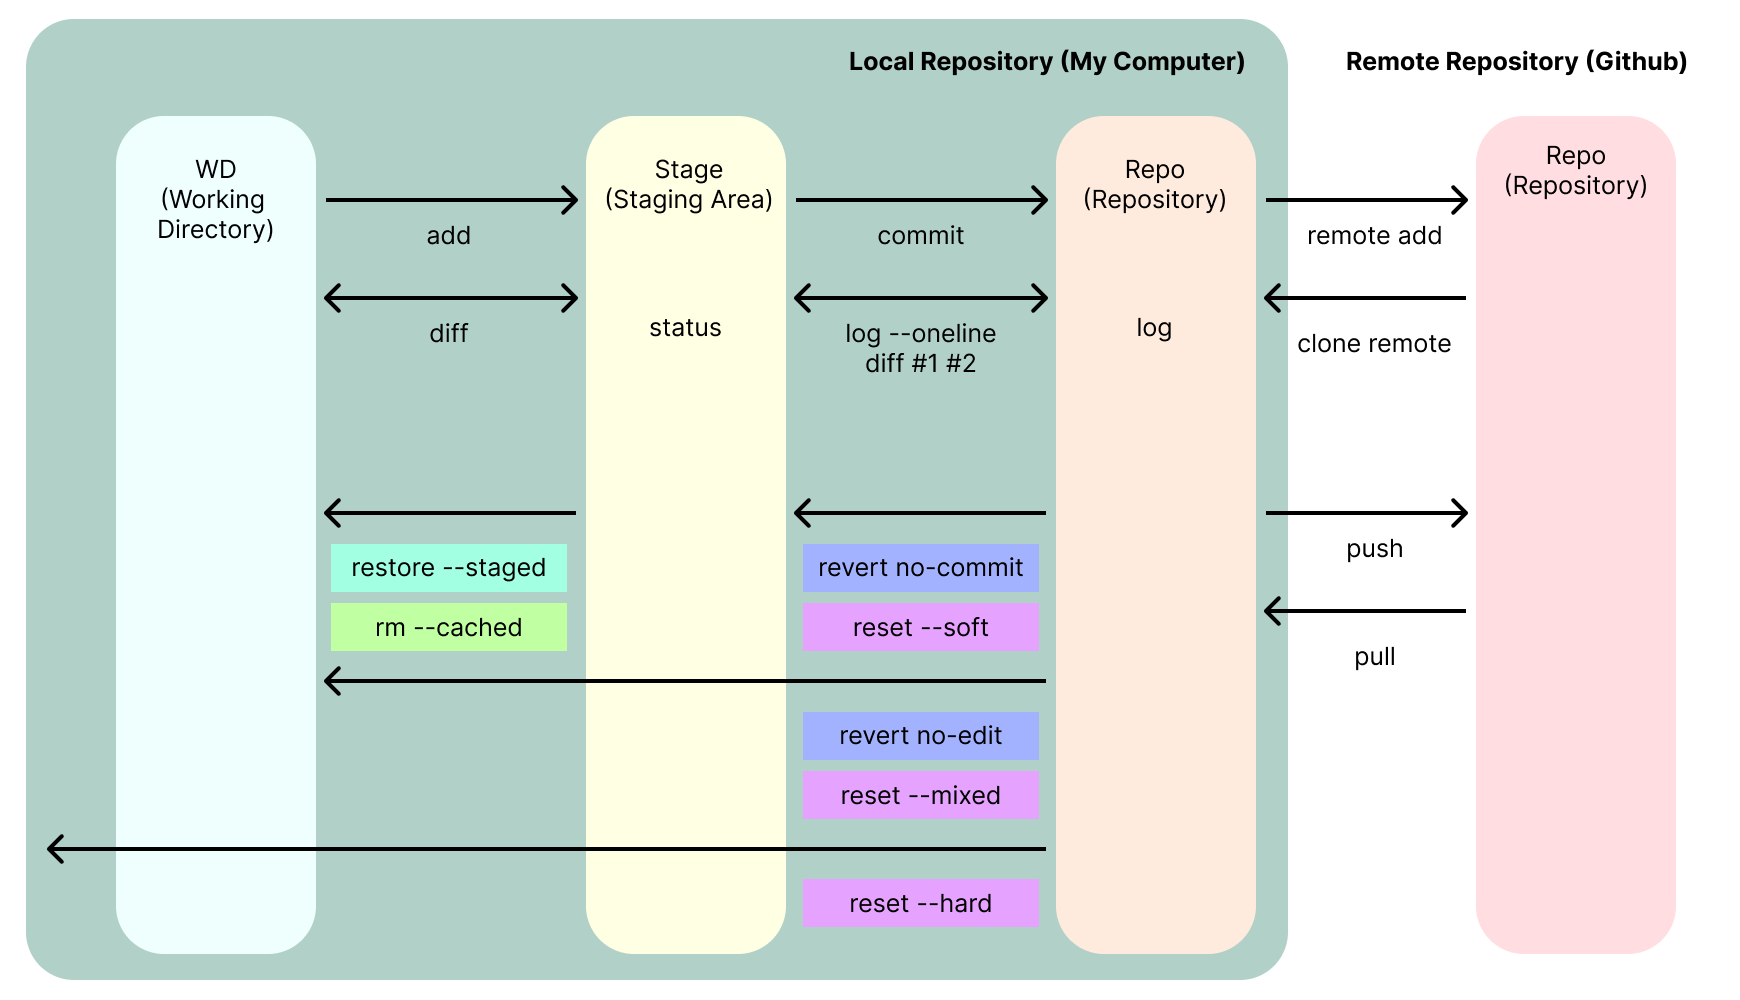
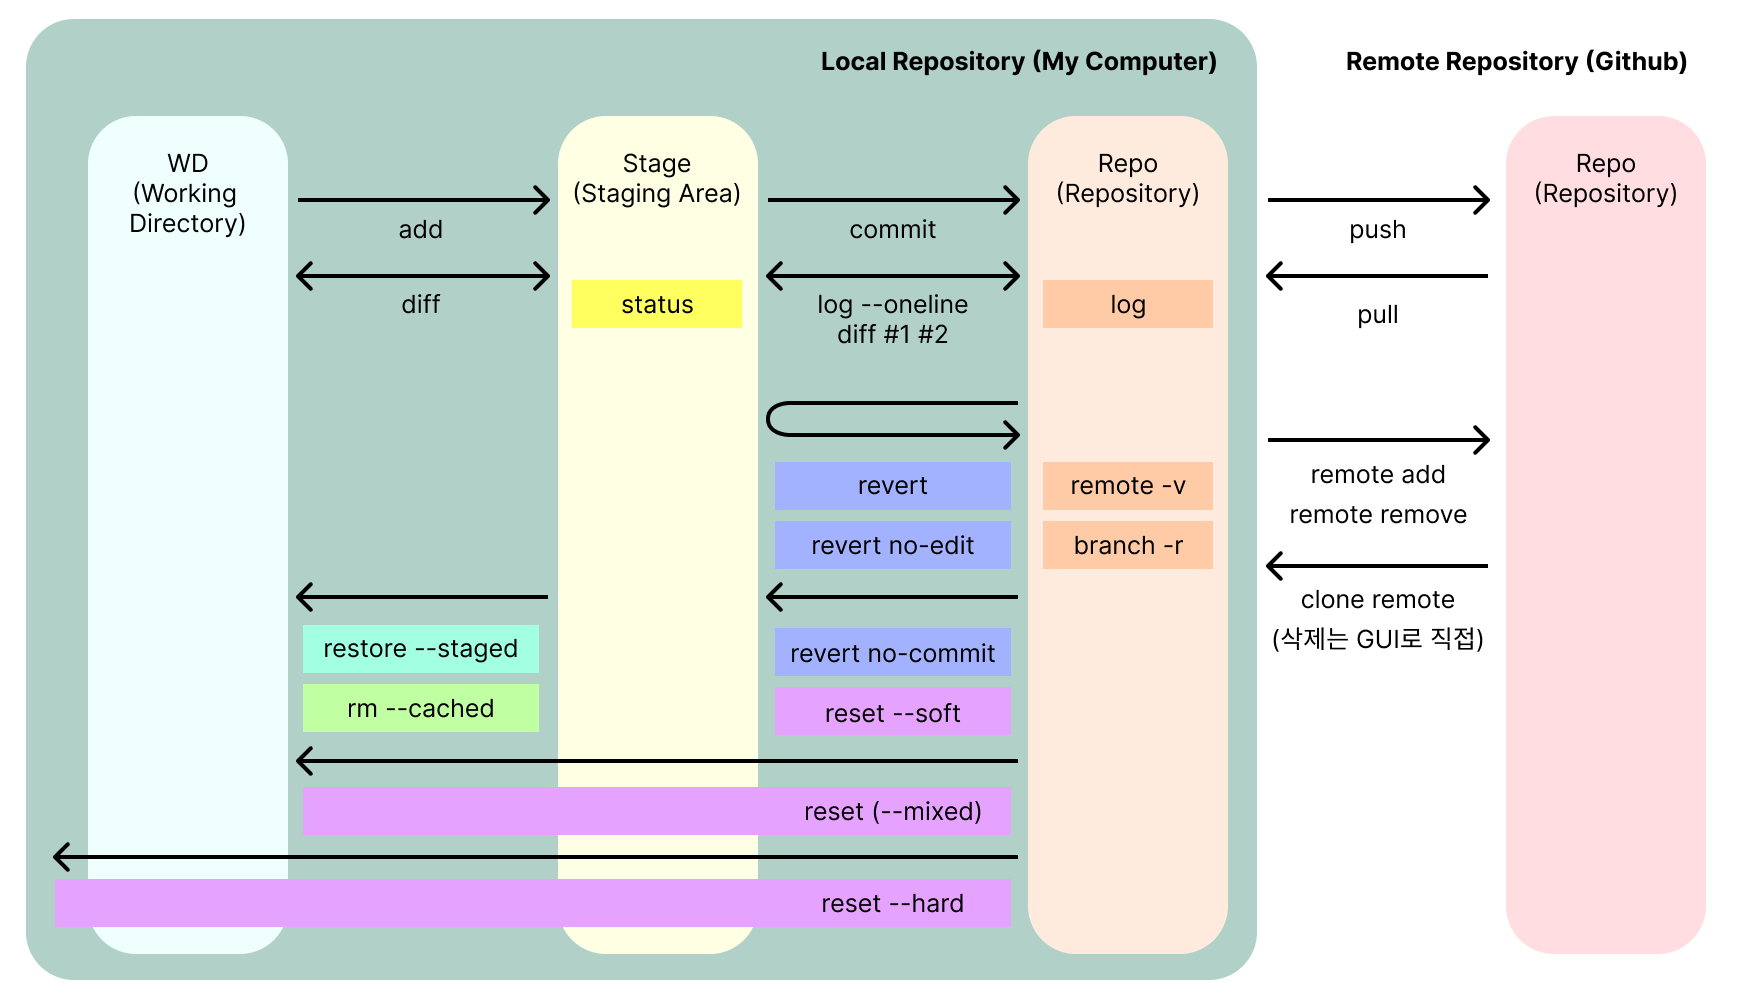
dfg

Changed region(s): [[0.031, 0.0, 0.9931, 0.992], [0.3414, 0.093, 0.3724, 0.124]]

diff --git a/SSAFY14/Python/6_Git_문법.md b/SSAFY14/Python/6_Git_문법.md
@@ -120,5 +120,26 @@
     해당 파일과 폴더 경로는 push할떄 무시된다 
 
 <br>
+
+### ✴ 특정 중간과정을 취소해야 할 떄
+
+| | |
+|:---:|:---:|
+|git amend|타임라인의 가장 최신 버전만 수정 가능|
+|git revert|타임라인의 특정 시점만 골라 저장을 취소하고 자동메세지를 남김|
+|git reset|타임라인의 특정 버전까지 작업을 취소한다(ctrl z와 같은 기능)|
+
+<br>
+
+| | |
+|:---:|:---:|
+|git revert|Repo→WD 로 특정 변경사항을 작업 <ins>**직전**</ins>으로 되돌리고, <br>되돌린 버전을 저장하고, 메세지를 직접 작성한다|
+|git revert no-edit|Repo→WD 로 특정 변경사항을 작업 <ins>**직전**</ins>으로 되돌리고, <br>되돌린 버전을 저장하고, 메세지를 자동으로 작성해준다|
+|git revert no-commit|Repo→SA 로 특정 변경사항을 작업 <ins>**직후**</ins>로 되돌리고, <br>되돌린 버전을 저장하지 않아, 직접 commit 을 해야한다|
+
+
+
+
+<br>
 <br>
 <br>
